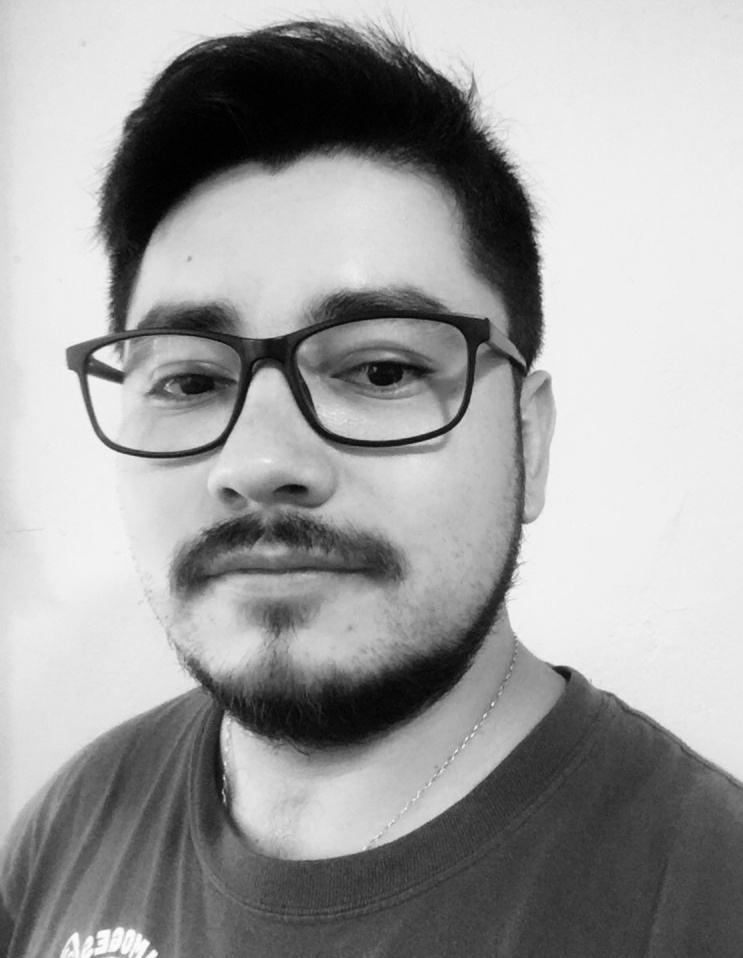
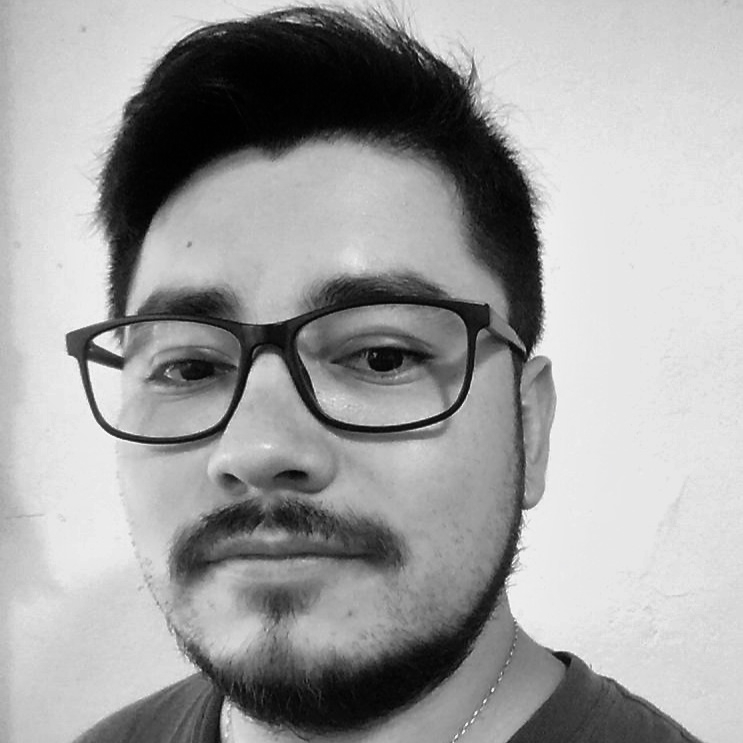
TYNE-300: - about us update

diff --git a/src/app/public/about-us/about-us.component.ts b/src/app/public/about-us/about-us.component.ts
@@ -14,13 +14,14 @@ export class AboutUsComponent {
 
   public tyneMembers: TyneMember[] = [
     { memberImage: 'assets/members/elias.jpeg', memberName: 'Elias', memberCharge: 'CEO' },
-    { memberImage: 'https://randomuser.me/api/portraits/men/85.jpg', memberName: 'David', memberCharge: 'Líder Equipo de Desarrollo' },
+    { memberImage: 'assets/members/david.jpeg', memberName: 'David', memberCharge: 'Líder Equipo de Desarrollo' },
     { memberImage: 'assets/members/jorge.jpeg', memberName: 'Jorge', memberCharge: 'Diseñador UI/UX' },
-    { memberImage: 'https://randomuser.me/api/portraits/men/85.jpg', memberName: 'Tony', memberCharge: 'Desarrollador Informático' },
+    { memberImage: 'assets/members/placeholder.jpg', memberName: 'Tony', memberCharge: 'Desarrollador Informático' },
     { memberImage: 'assets/members/cristopher.jpg', memberName: 'Cristopher', memberCharge: 'Desarrollador Informático' },
-    { memberImage: 'https://randomuser.me/api/portraits/men/85.jpg', memberName: 'Yerko', memberCharge: 'Desarrollador Informático' },
-    { memberImage: 'assets/members/vicente.jpeg', memberName: 'Vicente', memberCharge: 'Diseñador UI/UX' },
-    { memberImage: 'assets/members/roberto.jpg', memberName: 'Roberto', memberCharge: 'Desarrollador Informático' },
+    { memberImage: 'assets/members/yerko.jpeg', memberName: 'Yerko', memberCharge: 'Desarrollador Informático' },
+    { memberImage: 'assets/members/rob.jpg', memberName: 'Roberto', memberCharge: 'Desarrollador Informático' },
+    { memberImage: 'assets/members/victor.jpeg', memberName: 'Victor', memberCharge: 'Community Manager' },
+    { memberImage: 'assets/members/nicolas.jpeg', memberName: 'Nicolas', memberCharge: 'Diseñador UI/UX' },
   ]
-
+  
 }
